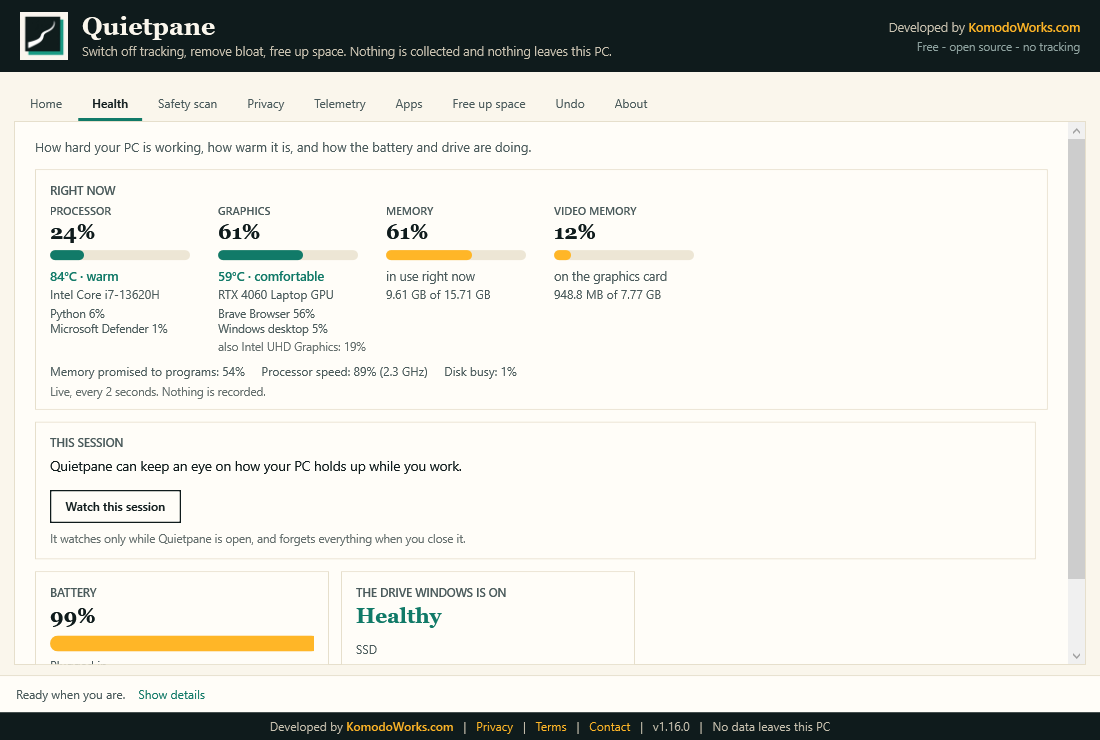
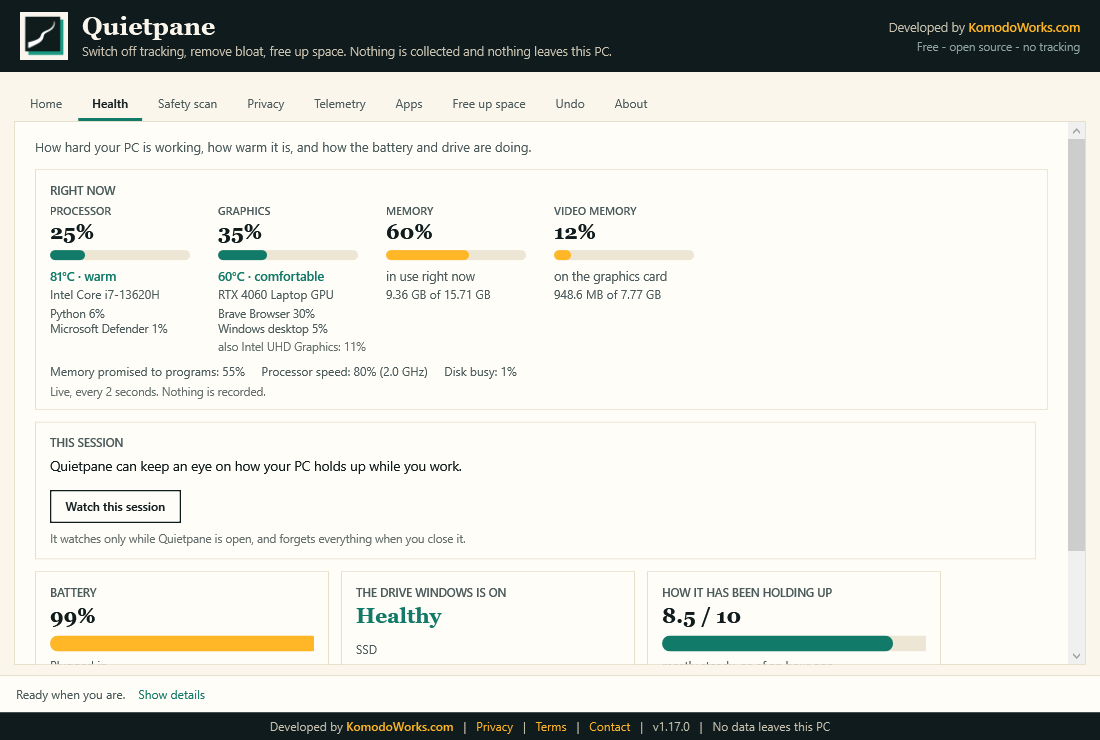
1.17.0 - it speaks up, and Windows' own health record
Two things that finish the session watch off.

Alerts, said once
  While a session is being watched, five things are worth interrupting
  for: very hot or held back for more than five minutes, memory promised
  past 90%, the drive down to its last tenth, and a battery with twenty
  minutes left. Each is raised once and then stays on the record - an
  alert that repeats is an alert people learn to ignore.

  It goes on the status line, in amber at the top of the session card,
  and onto the taskbar icon while the window is out of sight. A "came
  back" badge outranks it: that one is about a choice you made, this one
  is a passing warm spell. The wording says what is happening and never
  what you ought to do, because Quietpane cannot know whether the game
  you are playing is worth the heat.

How it has been holding up
  Windows keeps its own record of how steady a PC has been - the one
  behind Reliability Monitor, which almost nobody opens. A third card on
  Health shows the score out of ten with the date Windows worked it out,
  what stopped working in the last 30 days and which program most often,
  how many times the PC stopped without warning, and how long it has
  been awake.

  Read from the event log rather than Win32_ReliabilityRecords: the same
  crashes and hangs, with the program's name, in 100 ms instead of 5.8
  seconds. Windows Update and installer entries are deliberately left
  out - an update that installed is not a problem, and counting 222 of
[…]

diff --git a/README.md b/README.md
@@ -77,7 +77,11 @@ Just want a check-up that changes nothing? Double-click **Safety scan only** ins
 
 **Health.** How hard the processor, graphics card and memory are working, how warm they are, and which programs are using them most, updated every 2 seconds while the tab is open. Under the tiles, the three numbers that explain a slow PC when everything else looks fine: **how much memory Windows has promised** to programs (which fills up long before the memory chips do), **how much of its speed the processor is being allowed**, and **how busy the drive is**. On a laptop the battery card adds the watts the cell itself reports and how long that leaves - worked out from the charge and the measured draw, because Windows' own estimate is a made-up number while you're on mains.
 
-**Watch this session.** One button keeps that same reading going while you work, minimised and all, and tells you afterwards how your PC held up: the peaks rather than averages, the minutes it spent hot or held back to cool off, how far memory got, and what was busiest at the time. If the PC sleeps, the gap is reported as a gap and never drawn through. It watches **only while Quietpane is open and only after you press it** - nothing is installed, nothing is scheduled, nothing is written down, and closing the window forgets it. Also the battery's charge and how much it holds compared with new, and the drive's health, wear and temperature. The graphics temperature comes from the driver, as in Task Manager. The processor's comes from Windows' thermal sensor, so treat it as a guide: reading the chip itself would need a kernel driver, and Quietpane won't install one. Anything a PC doesn't share says **not shared**.
+**Watch this session.** One button keeps that same reading going while you work, minimised and all, and tells you afterwards how your PC held up: the peaks rather than averages, the minutes it spent hot or held back to cool off, how far memory got, and what was busiest at the time. If the PC sleeps, the gap is reported as a gap and never drawn through. It watches **only while Quietpane is open and only after you press it** - nothing is installed, nothing is scheduled, nothing is written down, and closing the window forgets it.
+
+While it watches, it speaks up about the handful of things worth interrupting for: very hot or held back for more than five minutes, memory promised past 90%, the drive down to its last tenth, or a battery with twenty minutes left. **Each is said once**, on the status line and on the taskbar icon while the window is out of sight - an alert that repeats is an alert people learn to ignore. It says what is happening, never what you ought to do about it, because it can't know whether the game you're playing is worth the heat.
+
+**How it has been holding up.** Windows keeps its own record of how steady your PC has been - the one behind Reliability Monitor, which almost nobody opens. Quietpane shows the score out of ten with the date Windows worked it out, what stopped working in the last 30 days and which program most often, how many times the PC stopped without warning, and how long it has been awake. Windows Update and installer entries are left out, because an update that installed is not a problem. Where Windows has kept no score, the card says so instead of showing a zero. Also the battery's charge and how much it holds compared with new, and the drive's health, wear and temperature. The graphics temperature comes from the driver, as in Task Manager. The processor's comes from Windows' thermal sensor, so treat it as a guide: reading the chip itself would need a kernel driver, and Quietpane won't install one. Anything a PC doesn't share says **not shared**.
 
 **Safety scan.** Asks Microsoft Defender what it has found, and looks for the tricks adware uses: odd startup entries and tasks, hijacked network settings, unsigned or tampered programs, cracked-software traces, browser add-ons and notification spam. For anything suspicious, it also shows the folders created at the same moment, which is usually the culprit. Looking changes nothing.
 

diff --git a/PRIVACY.md b/PRIVACY.md
@@ -33,6 +33,7 @@ The app runs only on your PC, only when you start it, and only does what you cli
 | **Clean up space** (only when you click Apply) | The folders you ticked | Files are moved to **your Recycle Bin** |
 | **Home screen** | Free space on your system drive | Shown on screen. Totals of what the app has freed are kept in `%ProgramData%\Quietpane\totals.json` (two numbers, a count of runs and the date of the last one). None of it leaves your PC. |
 | **Health tab** (only while it's open) | How busy the processor, graphics card and memory are, how much video memory is in use, and the names of the programs using them most, all from Windows performance counters. Temperatures from Windows' thermal sensor and from your graphics driver, asked through a short C# block that's compiled on your PC from the readable source in `src/Quietpane.psm1`. On a laptop: the battery's charge, and how much it holds compared with new, from Windows' own battery report. That report is written to a temporary file, read, and deleted straight away. The drive Windows runs from: Windows' verdict on it, its wear and its temperature. Also how much memory Windows has promised to programs, how much of its speed the processor is being allowed, how busy the drive is, and - on a laptop - how many watts the battery says it is giving or taking. | Shown on screen: live figures every 2 seconds, battery and drive every 5 minutes, and nothing at all when the tab is closed. **None of it is saved.** |
+| **Health tab: how it has been holding up** | Windows' own reliability record: its stability score (the one behind Reliability Monitor), and, from your Windows event log, which programs stopped working or stopped responding in the last 30 days, how many times the PC stopped without warning, and any blue screens. Names of programs only - never what you were doing in them. Windows Update and installer entries are not read. | Shown on screen only. Nothing about it is saved, and nothing is sent anywhere. |
 | **Health tab: "Watch this session"** (only after you press it) | The same readings as above and nothing more, kept while you work so the peaks can be shown at the end. It carries on while Quietpane is minimised, about every 10 seconds, which is the point of it. | **In this window's memory only.** Nothing is written to disk, nothing is installed and no task is scheduled: closing Quietpane ends the watch and forgets the record. |
 | **Privacy tab: your browser add-ons** | Each browser's own files, on this PC only: the folder an add-on was unpacked into, its `manifest.json` (which lists what it may do) and the browser's settings file (which says whether it is on and where it came from). For Firefox, its `extensions.json`. **No add-on is opened or run, nothing is looked up online, and none of those files is written to.** | Shown on screen, and named in a scan report if you run one. Nothing else is saved. |
 | **Switching a browser add-on off** (only when you tick one and press Apply) | Writes the add-on's id into `HKCU\SOFTWARE\Policies\<browser>\ExtensionInstallBlocklist` - the same setting a workplace uses, under your own account only. The browser then refuses to load that add-on and says an administrator blocked it. Nothing is removed from your browser, and no browser file is touched. | A restore point in `%ProgramData%\Quietpane\restore\`, so Undo takes the policy away again and the add-on works as before |

diff --git a/TERMS.md b/TERMS.md
@@ -9,7 +9,7 @@ Quietpane is developed by **KomodoWorks**, an independent technology studio in D
 It is **free**. There's no purchase, no subscription, no account and no in-app offer.
 
 ## 2. What it does
-Quietpane can look at your computer without changing it (the Safety scan, the Health tab, "Where your space went", "What's talking to the internet", what each startup program costs you, what your browser add-ons are allowed to read, how your PC holds up over a session while you ask it to watch, and the record of which apps used your camera, microphone and location). When you choose to, it can also change Windows and application settings, switch off services, scheduled tasks and startup items, stop an app using the camera, microphone or location, tell a browser not to load an add-on you picked (a setting under your own account, which the browser reports as blocked by an administrator), add entries to the Windows hosts file, remove pre-installed apps, run a program's own uninstaller, move files and folders you pick to the Recycle Bin, add or remove its own Start menu and desktop shortcuts, start itself when you sign in (a task in Task Scheduler) and, if you choose, check once at that moment for anything that switched itself back on, keep its own copy in Program Files for those two to open, and deal with threats: ask Microsoft Defender to remove them, quarantine them, or delete them.
+Quietpane can look at your computer without changing it (the Safety scan, the Health tab, "Where your space went", "What's talking to the internet", what each startup program costs you, what your browser add-ons are allowed to read, how your PC holds up over a session while you ask it to watch, Windows' own record of how steady it has been, and the record of which apps used your camera, microphone and location). When you choose to, it can also change Windows and application settings, switch off services, scheduled tasks and startup items, stop an app using the camera, microphone or location, tell a browser not to load an add-on you picked (a setting under your own account, which the browser reports as blocked by an administrator), add entries to the Windows hosts file, remove pre-installed apps, run a program's own uninstaller, move files and folders you pick to the Recycle Bin, add or remove its own Start menu and desktop shortcuts, start itself when you sign in (a task in Task Scheduler) and, if you choose, check once at that moment for anything that switched itself back on, keep its own copy in Program Files for those two to open, and deal with threats: ask Microsoft Defender to remove them, quarantine them, or delete them.
 
 **It only makes changes you have chosen and confirmed.** Before applying settings you can use "Preview" to see exactly what would change.
 

diff --git a/docs/manual-checks.md b/docs/manual-checks.md
@@ -120,6 +120,15 @@ These need eyes, not assertions:
   reported as a stretch that went unwatched, not drawn through. Press Stop and the summary stays on
   screen; close Quietpane and reopen it, and the record is gone, as it says it will be. While it is
   watching and you are on another tab, Quietpane's own processor use in Task Manager stays near zero.
+- **Alerts, once each.** While watching, run something heavy until the processor is very hot for five
+  minutes: the status line says so, the line appears in amber at the top of the session card, and it
+  never says it a second time however long the heat lasts. Minimise Quietpane first and the taskbar
+  icon carries a badge; restore the window and the badge clears. With a "came back" badge already
+  showing, that one stays - it is about a choice you made.
+- **How it has been holding up.** The score matches Reliability Monitor (run `perfmon /rel`) and the
+  date under it matches the last point on its graph. The programs named match what that report lists
+  as stopped working - and Windows Update entries, which fill most of that report, are not counted.
+  On a PC where Windows has kept no score, the card says "Not scored" rather than showing 0.
 - **The three extra vitals.** Under the tiles, compare "memory promised to programs" with Task Manager
   > Performance > Memory > Committed, the processor speed with its Speed figure, and disk busy with
   Task Manager's disk % - they come from the same place and should agree. On battery, the battery card
